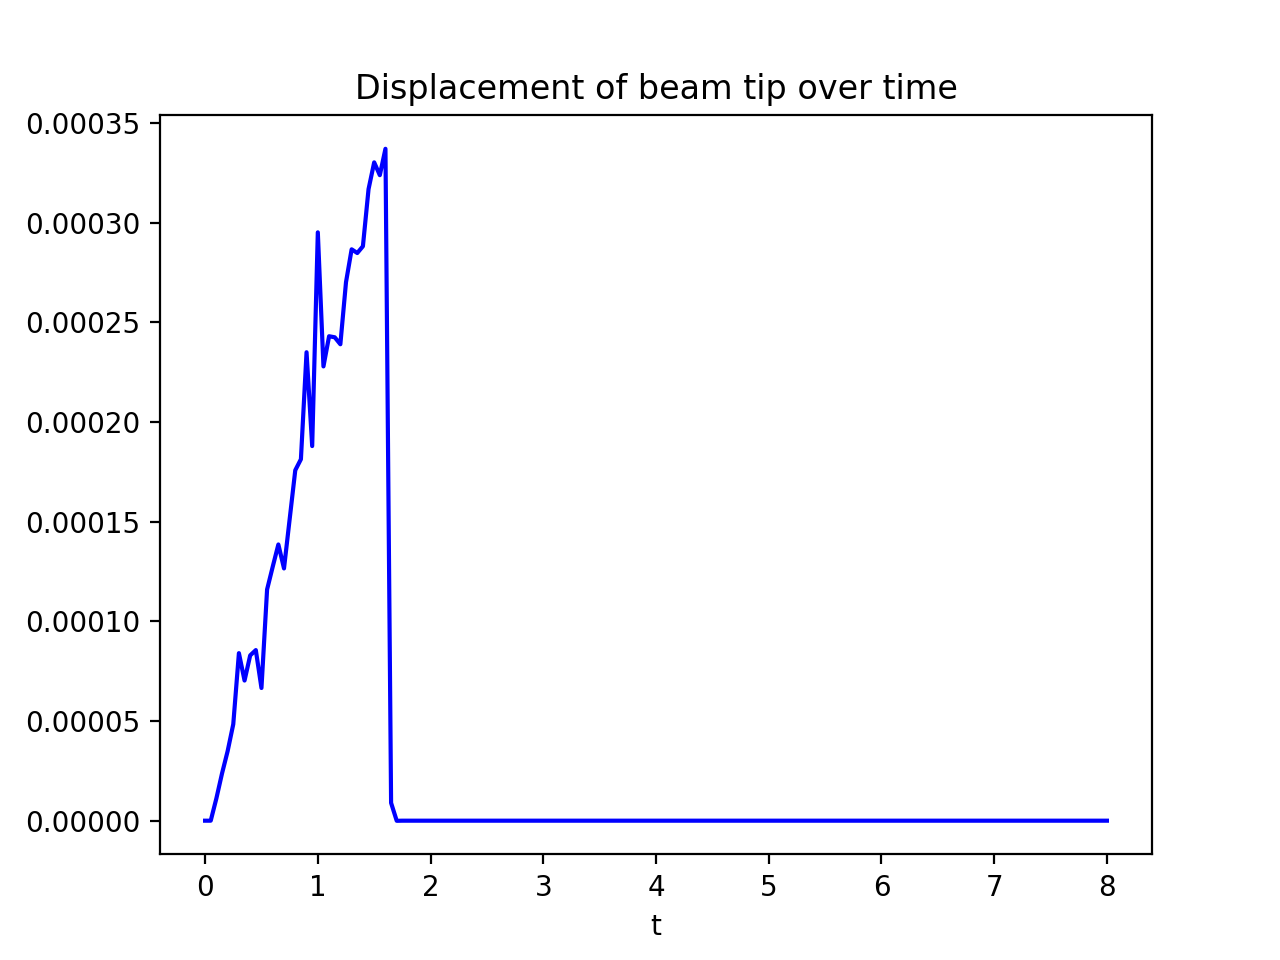
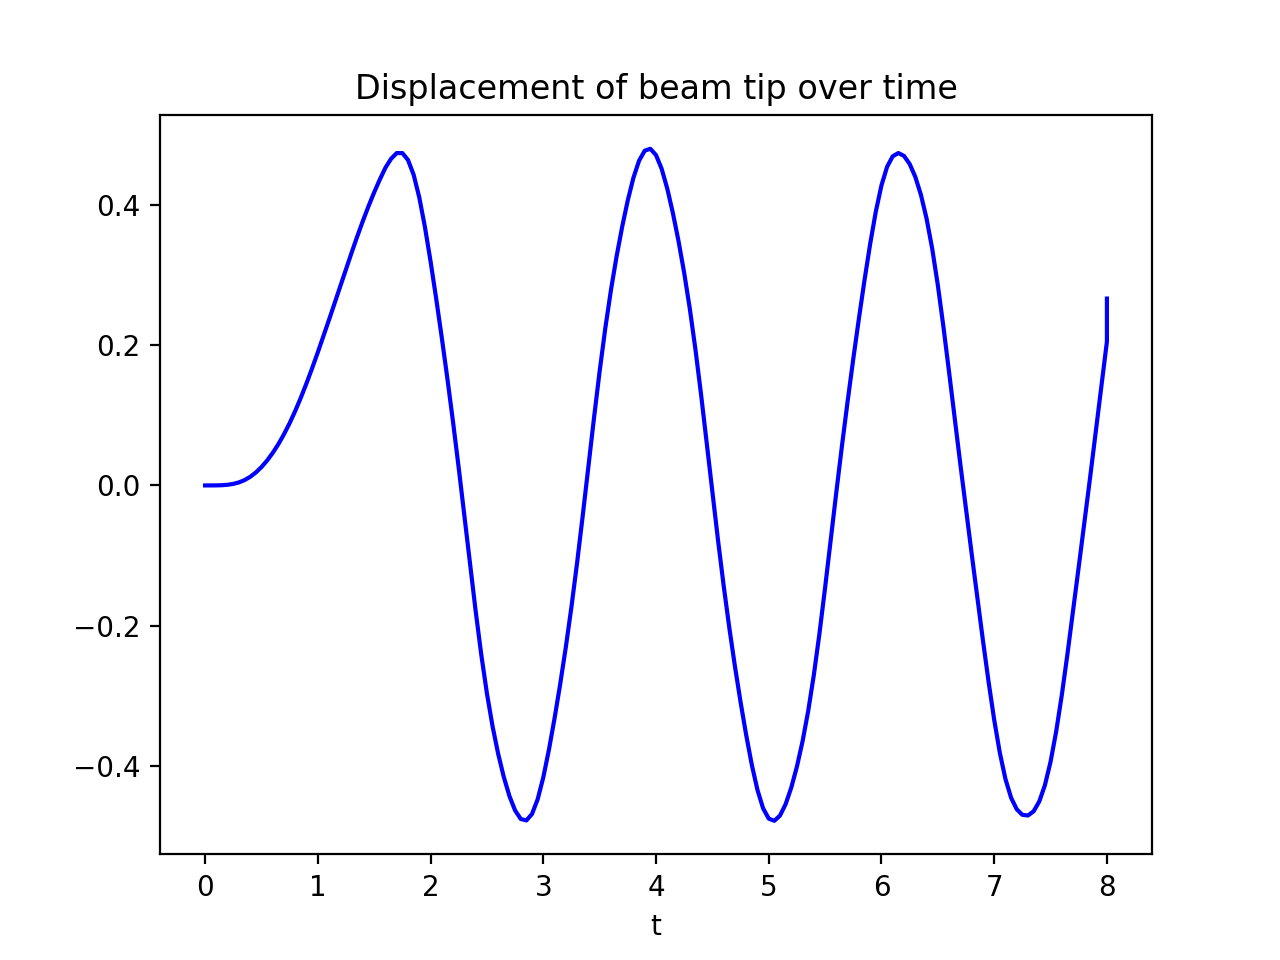
Fixed some bugs

diff --git a/Source/elastodyn.py b/Source/elastodyn.py
@@ -173,8 +173,8 @@ def run_beam_problem_assimulo():
     beam_problem = aode.Explicit_Problem(beam_class.rhs, y0=np.zeros((2 * beam_class.ndofs,)))
     beam_problem.name = 'Modified Elastodyn example from DUNE-FEM'
 
-    beamCV = aso.ImplicitEuler(beam_problem)  # CVode solver instance
-    # beamCV = aso.Radau5ODE(beam_problem)
+    # beamCV = aso.ImplicitEuler(beam_problem)  # CVode solver instance
+    beamCV = aso.Radau5ODE(beam_problem)
     beamCV.h = 0.05  # constant step size here
     tt, y = beamCV.simulate(t_end)
 
@@ -193,6 +193,7 @@ def run_beam_problem_assimulo():
     pl.title('Displacement of beam tip over time')
     pl.xlabel('t')
     pl.savefig('displacement.png', dpi=200)
+    print(f"times: {tt}")
 
 
 def run_beam_problem_HHT():
@@ -216,8 +217,8 @@ def run_beam_problem_HHT():
 
     import assimulo.solvers as aso
     import assimulo.ode as aode
-    # beamCV = HHT(beam_problem)
-    beamCV = aso.ImplicitEuler(beam_problem) # CVode solver instance
+    beamCV = HHT(beam_problem)
+    # beamCV = aso.ImplicitEuler(beam_problem) # CVode solver instance
     # beamCV = aso.Radau5ODE(beam_problem)
     beamCV.h = 0.05  # constant step size here
     tt, y = beamCV.simulate(t_end)
@@ -240,5 +241,5 @@ def run_beam_problem_HHT():
 
 
 if __name__ == '__main__':
-    # run_beam_problem_HHT()
-    run_beam_problem_assimulo()
+    run_beam_problem_HHT()
+    # run_beam_problem_assimulo()

diff --git a/Source/main_Project2.py b/Source/main_Project2.py
@@ -115,7 +115,7 @@ def plot_stats(xdata, ydata, plotnumber=500, savefig=False, xlabel='', figsize=(
 
 
 if __name__ == '__main__':
-    # run_seven_bar_problem(True, 1, 1E-6, 1E-6, False, False, False)
+    run_seven_bar_problem(True, 1, 1E5, 1E5, False, False, True)
 
     if False:
         # This plots comparisons of the index 1,2,3 formulations

diff --git a/Source/Explicit_Problem_2nd.py b/Source/Explicit_Problem_2nd.py
@@ -9,7 +9,7 @@ class Explicit_Problem_2nd(Explicit_Problem):
     def __init__(self, M, C, K, u0, ud0, t0, f, **params):
         self.M = M
         self.C = C
-        self.K = M
+        self.K = K
         self.u0 = u0
         self.ud0 = ud0
         self.t0 = t0
